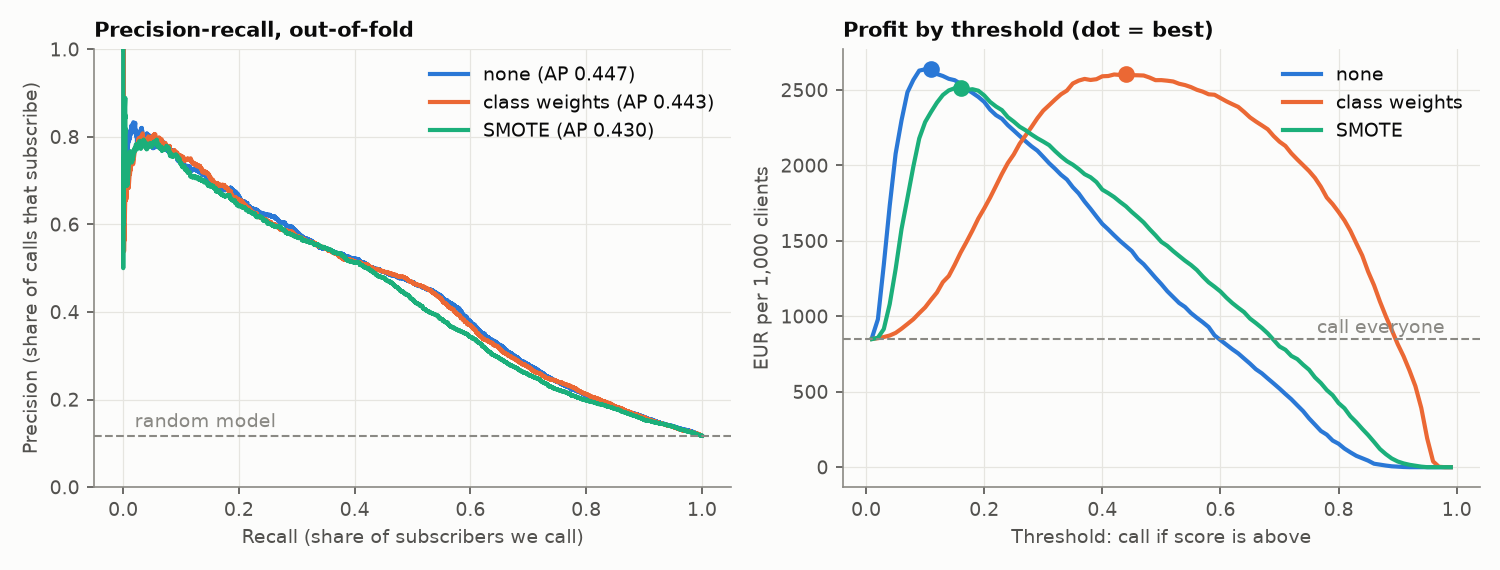
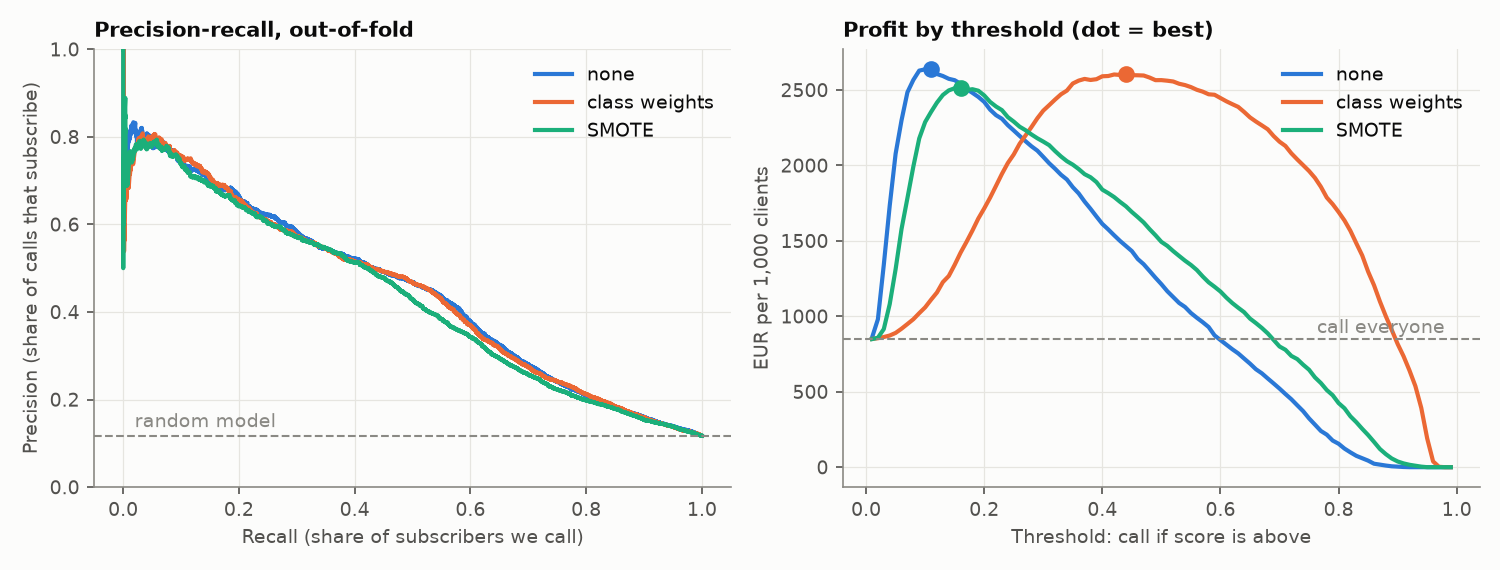
Add single Pipeline and compare three models

Changed region(s): [[0.276, 0.1193, 0.4907, 0.2386]]

diff --git a/src/imbalance.py b/src/imbalance.py
@@ -14,19 +14,17 @@ Then for each, the threshold is chosen to maximise profit on out-of-fold scores.
 
 Run: python -m src.imbalance
 """
-import matplotlib.pyplot as plt
 import pandas as pd
 from imblearn.over_sampling import SMOTE
 from imblearn.pipeline import Pipeline as ImbPipeline
 from lightgbm import LGBMClassifier
-from sklearn.metrics import precision_recall_curve
 from sklearn.pipeline import Pipeline
 
 from src.config import SEED, path
 from src.data import load_split
-from src.evaluation import best_threshold, out_of_fold, profit_curve, summarize
+from src.evaluation import best_threshold, out_of_fold, summarize
 from src.features import make_preprocessing
-from src.plots import GREY, SERIES, save
+from src.plots import pr_and_profit
 
 
 def remedies(pos_weight: float) -> dict:
@@ -56,37 +54,16 @@ def main() -> None:
         oof, fold_ap = out_of_fold(pipe, X, y)
         scores[name] = oof
         for rule, t in [("default 0.5", 0.5), ("profit-optimal", best_threshold(y, oof))]:
-            rows.append({"remedy": name, "threshold_rule": rule, "AP_fold_std": fold_ap.std(),
-                         **summarize(y, oof, t)})
+            rows.append({"remedy": name, "threshold_rule": rule, **summarize(y, oof, t),
+                         # CV convention (S5): AP is the mean of the 5 fold scores.
+                         "AP": fold_ap.mean(), "AP_fold_std": fold_ap.std()})
     table = pd.DataFrame(rows)
     table.to_csv(path("tables") / "imbalance_remedies.csv", index=False)
 
-    # Reference points a manager would ask about.
-    call_all = profit_curve(y, pd.Series(1.0, index=y.index).to_numpy()).iloc[0]
-    print(f"positive rate {y.mean():.3f} | scale_pos_weight {pos_weight:.2f} | "
-          f"profit per 1,000 clients if we call everyone: EUR {call_all:,.0f}\n")
+    print(f"positive rate {y.mean():.3f} | scale_pos_weight {pos_weight:.2f}\n")
     print(table.round(3).to_string(index=False))
 
-    fig, (ax_pr, ax_profit) = plt.subplots(1, 2, figsize=(10, 3.8))
-    for color, (name, oof) in zip(SERIES, scores.items()):
-        precision, recall, _ = precision_recall_curve(y, oof)
-        ap = table.loc[table["remedy"] == name, "AP"].iloc[0]
-        ax_pr.plot(recall, precision, color=color, linewidth=2, label=f"{name} (AP {ap:.3f})")
-        curve = profit_curve(y, oof)
-        ax_profit.plot(curve.index, curve.values, color=color, linewidth=2, label=name)
-        ax_profit.plot(curve.idxmax(), curve.max(), "o", color=color, markersize=7)
-    ax_pr.axhline(y.mean(), color=GREY, linestyle="--", linewidth=1)
-    ax_pr.annotate("random model", (0.02, y.mean() + 0.02), ha="left", color=GREY)
-    ax_pr.set(xlabel="Recall (share of subscribers we call)",
-              ylabel="Precision (share of calls that subscribe)", ylim=(0, 1))
-    ax_pr.set_title("Precision-recall, out-of-fold", loc="left")
-    ax_pr.legend(loc="upper right")
-    ax_profit.axhline(call_all, color=GREY, linestyle="--", linewidth=1)
-    ax_profit.annotate("call everyone", (0.98, call_all + 40), ha="right", color=GREY)
-    ax_profit.set(xlabel="Threshold: call if score is above", ylabel="EUR per 1,000 clients")
-    ax_profit.set_title("Profit by threshold (dot = best)", loc="left")
-    ax_profit.legend(loc="upper right")
-    save(fig, "imbalance_pr_and_profit")
+    pr_and_profit(y, scores, "imbalance_pr_and_profit")
 
 
 if __name__ == "__main__":

diff --git a/src/models.py b/src/models.py
@@ -1,0 +1,70 @@
+"""Steps 4-5 - Three models, each wrapped in the same single Pipeline, compared on the same metrics.
+
+    raw client data
+      -> features   (rule-based new columns, see src/features.py)
+      -> columns    (ColumnTransformer: impute + scale numbers, one-hot categories)
+      -> model      (logistic regression | random forest | LightGBM)
+
+The Pipeline is what gets cross-validated, tuned and deployed, so every fold refits the
+preprocessing and the API later receives raw client fields, never a hand-made matrix.
+
+Models use library defaults here on purpose: this is the untuned comparison; Optuna tunes them
+in step 6. Every model is judged on out-of-fold scores, with its own profit-optimal threshold
+(the remedy chosen in step 3).
+
+Run: python -m src.models
+"""
+import time
+
+import pandas as pd
+from lightgbm import LGBMClassifier
+from sklearn.ensemble import RandomForestClassifier
+from sklearn.linear_model import LogisticRegression
+from sklearn.pipeline import Pipeline
+
+from src.config import SEED, path
+from src.data import load_split
+from src.evaluation import best_threshold, out_of_fold, profit, summarize
+from src.features import make_preprocessing
+from src.plots import pr_and_profit
+
+# Ordered from simplest to most flexible, so the table reads as "what each step bought".
+MODELS = {
+    "logistic_regression": lambda **p: LogisticRegression(max_iter=2000, random_state=SEED, **p),
+    "random_forest": lambda **p: RandomForestClassifier(n_jobs=-1, random_state=SEED, **p),
+    "lightgbm": lambda **p: LGBMClassifier(random_state=SEED, verbose=-1, **p),
+}
+
+
+def build_pipeline(name: str, **params) -> Pipeline:
+    """The one Pipeline used everywhere: preprocessing + the chosen model."""
+    return Pipeline([*make_preprocessing().steps, ("model", MODELS[name](**params))])
+
+
+def main() -> None:
+    X, _, y, _ = load_split()
+
+    # Baseline a manager would propose without any model: call every client.
+    call_everyone = pd.Series(True, index=y.index)
+    rows = [{"model": "call everyone (no model)", "AP": y.mean(), "ROC_AUC": 0.5,
+             "threshold": 0.0, "precision": y.mean(), "recall": 1.0, "share_called": 1.0,
+             "profit_per_1000": profit(y, call_everyone) * 1000 / len(y)}]
+    scores = {}
+    for name in MODELS:
+        start = time.perf_counter()
+        oof, fold_ap = out_of_fold(build_pipeline(name), X, y)
+        seconds = time.perf_counter() - start
+        scores[name] = oof
+        rows.append({"model": name, **summarize(y, oof, best_threshold(y, oof)),
+                     # CV convention (S5): AP is the mean of the 5 fold scores, with its spread.
+                     "AP": fold_ap.mean(), "AP_fold_std": fold_ap.std(),
+                     "cv_seconds": seconds})
+
+    table = pd.DataFrame(rows)
+    table.to_csv(path("tables") / "models_comparison.csv", index=False)
+    print(table.round(3).to_string(index=False))
+    pr_and_profit(y, scores, "models_pr_and_profit")
+
+
+if __name__ == "__main__":
+    main()

diff --git a/src/plots.py b/src/plots.py
@@ -3,8 +3,11 @@ import matplotlib
 
 matplotlib.use("Agg")  # scripts only save files; no window needed
 import matplotlib.pyplot as plt
+import numpy as np
+from sklearn.metrics import precision_recall_curve
 
 from src.config import path
+from src.evaluation import profit, profit_curve
 
 # Fixed series order: the same model/remedy always gets the same colour across figures.
 SERIES = ["#2a78d6", "#eb6834", "#1baf7a", "#eda100"]
@@ -18,6 +21,33 @@ plt.rcParams.update({
     "axes.grid": True, "grid.color": "#e6e5e0", "grid.linewidth": 0.6, "axes.axisbelow": True,
     "font.size": 9, "axes.titlesize": 10, "axes.titleweight": "bold", "legend.frameon": False,
 })
+
+
+def pr_and_profit(y, scores: dict, name: str) -> None:
+    """Left: precision-recall curve per candidate. Right: profit per threshold, dot = best.
+    `scores` maps a candidate's label to its out-of-fold probabilities."""
+    fig, (ax_pr, ax_profit) = plt.subplots(1, 2, figsize=(10, 3.8))
+    for color, (label, oof) in zip(SERIES, scores.items()):
+        precision, recall, _ = precision_recall_curve(y, oof)
+        ax_pr.plot(recall, precision, color=color, linewidth=2, label=label)
+        curve = profit_curve(y, oof)
+        ax_profit.plot(curve.index, curve.values, color=color, linewidth=2, label=label)
+        ax_profit.plot(curve.idxmax(), curve.max(), "o", color=color, markersize=7)
+
+    ax_pr.axhline(y.mean(), color=GREY, linestyle="--", linewidth=1)
+    ax_pr.annotate("random model", (0.02, y.mean() + 0.02), ha="left", color=GREY)
+    ax_pr.set(xlabel="Recall (share of subscribers we call)",
+              ylabel="Precision (share of calls that subscribe)", ylim=(0, 1))
+    ax_pr.set_title("Precision-recall, out-of-fold", loc="left")
+    ax_pr.legend(loc="upper right")
+
+    call_all = profit(y, np.ones(len(y), dtype=bool)) * 1000 / len(y)
+    ax_profit.axhline(call_all, color=GREY, linestyle="--", linewidth=1)
+    ax_profit.annotate("call everyone", (0.98, call_all + 40), ha="right", color=GREY)
+    ax_profit.set(xlabel="Threshold: call if score is above", ylabel="EUR per 1,000 clients")
+    ax_profit.set_title("Profit by threshold (dot = best)", loc="left")
+    ax_profit.legend(loc="upper right")
+    save(fig, name)
 
 
 def save(fig, name: str) -> None:

diff --git a/README.md b/README.md
@@ -36,8 +36,8 @@ Run each step from the project root, with the virtual environment active.
 | 1 | EDA, problem framing, stratified split | `python -m src.eda` | done |
 | 2 | Feature engineering + ablation | `python -m src.features` | done |
 | 3 | Class imbalance: remedies + cost-based threshold | `python -m src.imbalance` | done |
-| 4 | Model comparison (3 models) | | planned |
-| 5 | One Pipeline: ColumnTransformer + model | | planned |
+| 4 | Model comparison: logistic regression, random forest, LightGBM | `python -m src.models` | done |
+| 5 | One Pipeline: features + ColumnTransformer + model | `build_pipeline()` in `src/models.py` | done |
 | 6 | Optuna tuning with stratified CV | | planned |
 | 7 | Experiment tracking (MLflow) | | planned |
 | 8 | Explainability (SHAP) | | planned |
@@ -55,6 +55,7 @@ src/
   eda.py          step 1: figures and tables
   features.py     step 2: engineered features + preprocessing (imputer, scaler, one-hot)
   imbalance.py    step 3: compare remedies, pick the profit-maximising threshold
+  models.py       steps 4-5: the single Pipeline + 3-model comparison
   evaluation.py   shared metrics: out-of-fold scores, AP, precision, recall, profit
   plots.py        shared figure style
 reports/
